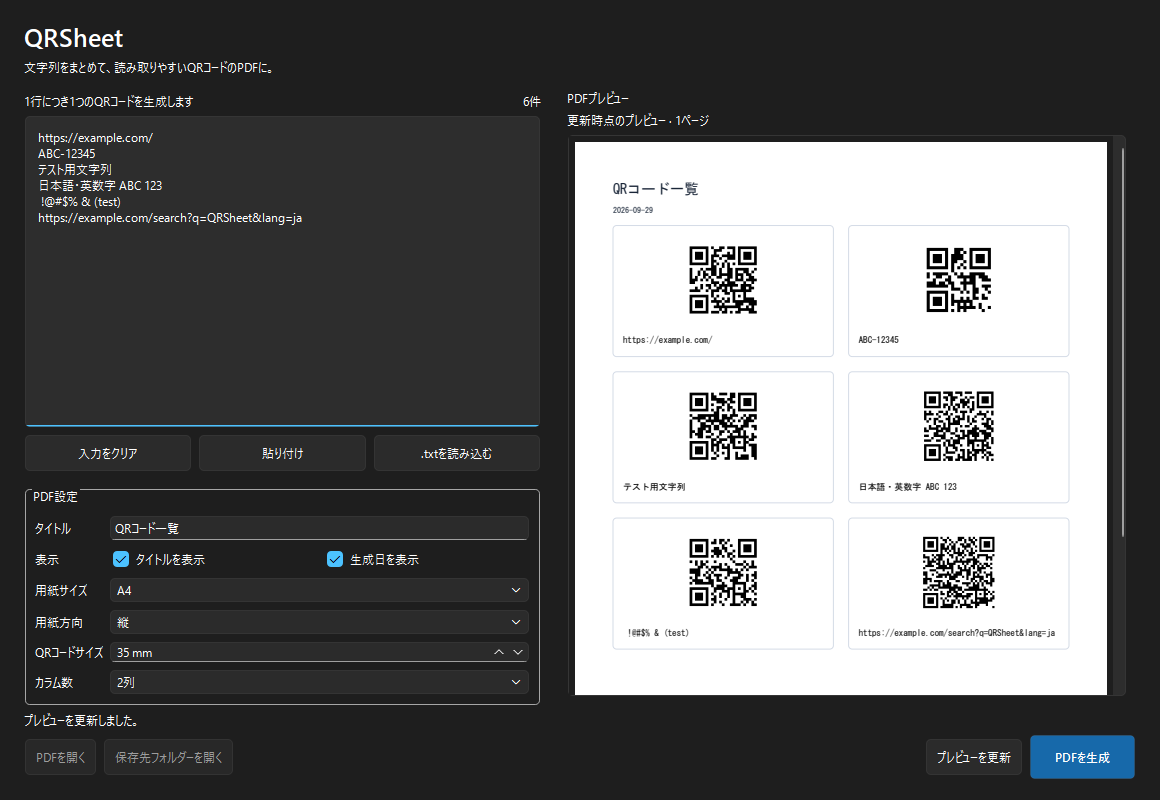
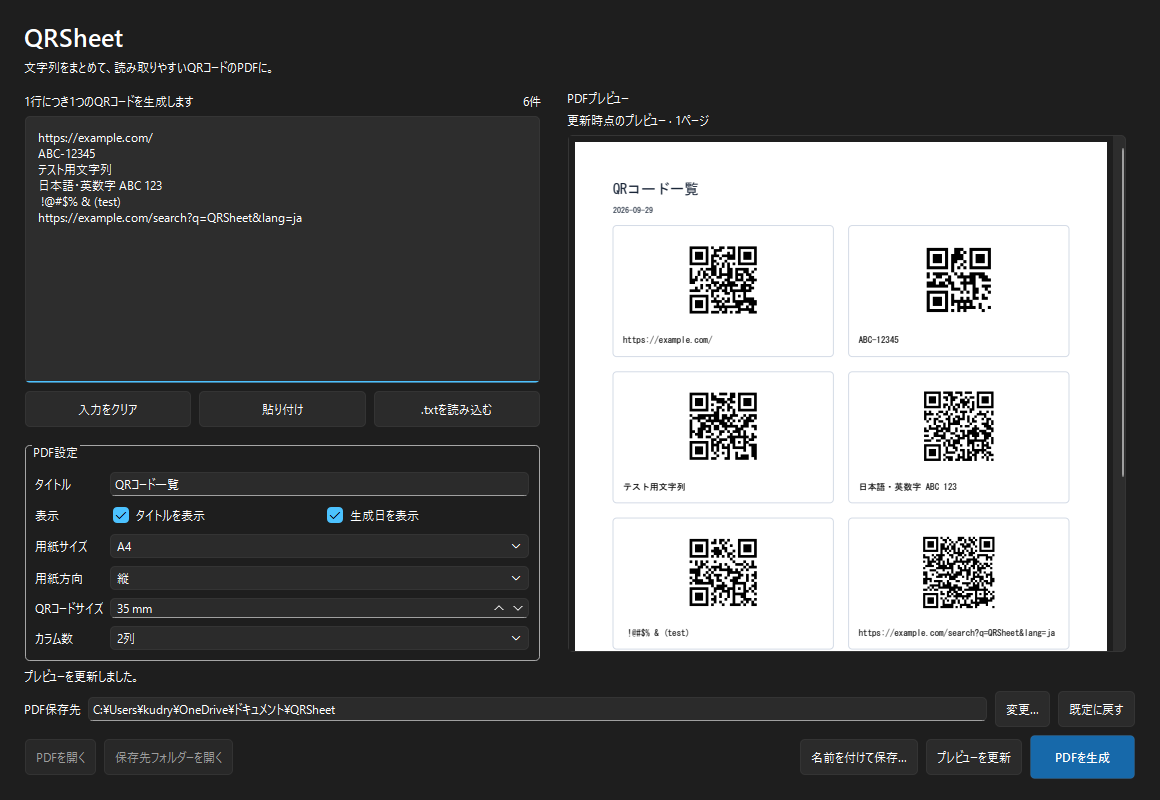
pdf保存先

diff --git a/src/qrsheet/ui/main_window.py b/src/qrsheet/ui/main_window.py
@@ -24,13 +24,30 @@ class PdfWorker(QThread):
     succeeded = Signal(str, int)
     failed = Signal(str)
 
-    def __init__(self, texts, path, settings, parent=None):
+    def __init__(self, texts, path, settings, parent=None, automatic=False):
         super().__init__(parent)
         self.texts, self.path, self.settings = texts, path, settings
+        self.automatic = automatic
 
     def run(self):
+        reserved = None
         try:
+            if self.automatic:
+                base = Path(self.path)
+                base.parent.mkdir(parents=True, exist_ok=True)
+                number = 0
+                while True:
+                    candidate = base if number == 0 else base.with_stem(f"{base.stem}_{number:03d}")
+                    try:
+                        with candidate.open("xb"):
+                            pass
+                        reserved = candidate
+                        self.path = candidate
+                        break
+                    except FileExistsError:
+                        number += 1
             pages = generate_pdf(self.texts, self.path, self.settings, self.progress.emit)
+            reserved = None
             self.succeeded.emit(str(self.path), pages)
         except UserError as exc:
             self.failed.emit(str(exc))
@@ -40,6 +57,12 @@ class PdfWorker(QThread):
         except Exception:
             logger.exception("PDF generation failed")
             self.failed.emit("PDFを生成できませんでした。設定と入力を確認して、もう一度お試しください。")
+        finally:
+            if reserved is not None:
+                try:
+                    reserved.unlink(missing_ok=True)
+                except OSError:
+                    logger.warning("Could not remove reserved output file", exc_info=True)
 
 
 class MainWindow(QMainWindow):
@@ -127,6 +150,19 @@ class MainWindow(QMainWindow):
         self.status = QLabel("文字列を入力して、PDFを生成してください。")
         self.status.setWordWrap(True)
         layout.addWidget(self.status)
+        destination = QHBoxLayout()
+        destination.addWidget(QLabel("PDF保存先"))
+        self.output_path = QLineEdit(str(self.manager.output_directory()))
+        self.output_path.setReadOnly(True)
+        self.output_path.setToolTip(self.output_path.text())
+        destination.addWidget(self.output_path, 1)
+        self.change_folder = QPushButton("変更…")
+        self.change_folder.clicked.connect(self.choose_output_directory)
+        destination.addWidget(self.change_folder)
+        self.reset_folder = QPushButton("既定に戻す")
+        self.reset_folder.clicked.connect(self.reset_output_directory)
+        destination.addWidget(self.reset_folder)
+        layout.addLayout(destination)
         actions = QHBoxLayout()
         self.open_pdf = QPushButton("PDFを開く")
         self.open_folder = QPushButton("保存先フォルダーを開く")
@@ -137,6 +173,9 @@ class MainWindow(QMainWindow):
         actions.addWidget(self.open_pdf)
         actions.addWidget(self.open_folder)
         actions.addStretch()
+        self.save_as_button = QPushButton("名前を付けて保存…")
+        self.save_as_button.clicked.connect(lambda: self.start_generation(False, True))
+        actions.addWidget(self.save_as_button)
         self.preview_button = QPushButton("プレビューを更新")
         self.preview_button.clicked.connect(lambda: self.start_generation(True))
         actions.addWidget(self.preview_button)
@@ -161,6 +200,20 @@ class MainWindow(QMainWindow):
     def mark_stale(self, *_):
         self.preview_note.setText("現在の入力・設定を反映するには「プレビューを更新」を押してください。")
 
+    def refresh_output_directory(self):
+        self.output_path.setText(str(self.manager.output_directory()))
+        self.output_path.setToolTip(self.output_path.text())
+
+    def choose_output_directory(self):
+        path = QFileDialog.getExistingDirectory(self, "PDFの保存先フォルダーを選択", self.output_path.text())
+        if path:
+            self.manager.set_output_directory(path)
+            self.refresh_output_directory()
+
+    def reset_output_directory(self):
+        self.manager.set_output_directory()
+        self.refresh_output_directory()
+
     def update_count(self):
         self.count.setText(f"{len(parse_lines(self.editor.toPlainText())):,}件")
         self.mark_stale()
@@ -183,7 +236,7 @@ class MainWindow(QMainWindow):
             logger.warning("Text import failed", exc_info=True)
             QMessageBox.warning(self, "読み込みエラー", str(exc) if isinstance(exc, UserError) else "ファイルを読み込めません。アクセス権を確認してください。")
 
-    def start_generation(self, preview_only=False):
+    def start_generation(self, preview_only=False, save_as=False):
         if self.worker is not None:
             return
         texts = parse_lines(self.editor.toPlainText())
@@ -200,22 +253,28 @@ class MainWindow(QMainWindow):
             self.document.close()
             self.preview_buffer.close()
             path = str(Path(self.preview_directory.name) / "preview.pdf")
-        else:
-            path, _ = QFileDialog.getSaveFileName(self, "PDFを保存", f"QRSheet_{date.today().isoformat()}.pdf", "PDF (*.pdf)")
+        elif save_as:
+            proposed = self.manager.output_directory() / f"QRSheet_{date.today().isoformat()}.pdf"
+            path, _ = QFileDialog.getSaveFileName(self, "PDFを保存", str(proposed), "PDF (*.pdf)")
             if not path:
                 return
             if not path.lower().endswith(".pdf"):
                 path += ".pdf"
                 if Path(path).exists() and QMessageBox.question(self, "上書き確認", "同名のPDFがあります。上書きしますか？") != QMessageBox.StandardButton.Yes:
                     return
+        else:
+            path = self.manager.output_directory() / f"QRSheet_{date.today().isoformat()}.pdf"
         self.manager.save(settings)
         self.generate_button.setEnabled(False)
         self.preview_button.setEnabled(False)
+        self.save_as_button.setEnabled(False)
+        self.change_folder.setEnabled(False)
+        self.reset_folder.setEnabled(False)
         self.progress.setRange(0, len(texts))
         self.progress.setValue(0)
         self.progress.show()
         self.status.setText("PDFを生成しています…")
-        self.worker = PdfWorker(texts, path, settings, self)
+        self.worker = PdfWorker(texts, path, settings, self, automatic=not preview_only and not save_as)
         self.worker.progress.connect(lambda done, total: self.progress.setValue(done))
         self.worker.succeeded.connect(lambda saved, pages: self.generation_done(saved, pages, preview_only))
         self.worker.failed.connect(self.generation_failed)
@@ -244,6 +303,9 @@ class MainWindow(QMainWindow):
         worker.deleteLater()
         self.generate_button.setEnabled(True)
         self.preview_button.setEnabled(True)
+        self.save_as_button.setEnabled(True)
+        self.change_folder.setEnabled(True)
+        self.reset_folder.setEnabled(True)
         self.progress.hide()
 
     def open_path(self, path):

diff --git a/tests/test_gui.py b/tests/test_gui.py
@@ -3,6 +3,9 @@ from PySide6.QtCore import QSettings
 from PySide6.QtWidgets import QApplication
 from qrsheet.settings.manager import SettingsManager, PdfSettings
 from qrsheet.ui.main_window import MainWindow
+from qrsheet.ui.main_window import PdfWorker
+from PySide6.QtWidgets import QFileDialog
+from pypdf import PdfReader
 
 
 def test_settings_roundtrip(tmp_path):
@@ -39,4 +42,61 @@ def test_gui_preview_worker(tmp_path):
         time.sleep(0.01)
     assert window.worker is None
     assert "更新された日本語" in window.document.getAllText(0).text()
+    window.close()
+
+
+def test_output_directory_default_change_and_reset(tmp_path, monkeypatch):
+    default = tmp_path / "Documents" / "QRSheet"
+    monkeypatch.setattr(SettingsManager, "default_output_directory", staticmethod(lambda: default))
+    store = QSettings(str(tmp_path / "output.ini"), QSettings.Format.IniFormat)
+    app = QApplication.instance() or QApplication([])
+    manager = SettingsManager(store)
+    window = MainWindow(manager)
+    assert window.output_path.text() == str(default)
+    custom = tmp_path / "日本語の保存先"
+    monkeypatch.setattr(QFileDialog, "getExistingDirectory", lambda *args: str(custom))
+    window.choose_output_directory()
+    assert SettingsManager(store).output_directory() == custom
+    monkeypatch.setattr(QFileDialog, "getExistingDirectory", lambda *args: "")
+    window.choose_output_directory()
+    assert manager.output_directory() == custom
+    window.reset_output_directory()
+    assert manager.output_directory() == default
+    assert not default.exists()
+    window.close()
+
+
+def test_automatic_save_preserves_existing_and_cleans_failed_output(tmp_path):
+    app = QApplication.instance() or QApplication([])
+    path = tmp_path / "new-folder" / "QRSheet.pdf"
+    first = PdfWorker(["最初のPDF"], path, PdfSettings(), automatic=True)
+    first.run()
+    original = path.read_bytes()
+    second = PdfWorker(["次のPDF"], path, PdfSettings(), automatic=True)
+    second.run()
+    assert path.read_bytes() == original
+    assert "次のPDF" in PdfReader(path.with_stem("QRSheet_001")).pages[0].extract_text()
+    failed = PdfWorker(["x" * 4000], path, PdfSettings(), automatic=True)
+    failed.run()
+    assert not path.with_stem("QRSheet_002").exists()
+
+
+def test_gui_saves_without_dialog(tmp_path, monkeypatch):
+    app = QApplication.instance() or QApplication([])
+    manager = SettingsManager(QSettings(str(tmp_path / "save.ini"), QSettings.Format.IniFormat))
+    manager.set_output_directory(tmp_path / "PDF")
+    window = MainWindow(manager)
+    window.editor.setPlainText("保存テスト")
+    def unexpected_dialog(*args):
+        raise AssertionError("Automatic generation must not ask for a filename")
+    monkeypatch.setattr(QFileDialog, "getSaveFileName", unexpected_dialog)
+    window.start_generation()
+    deadline = time.monotonic() + 30
+    while window.worker is not None and time.monotonic() < deadline:
+        app.processEvents()
+        time.sleep(0.01)
+    assert window.worker is None
+    assert window.last_pdf.parent == manager.output_directory()
+    assert "保存テスト" in PdfReader(window.last_pdf).pages[0].extract_text()
+    assert window.open_folder.isEnabled()
     window.close()

diff --git a/src/qrsheet/settings/manager.py b/src/qrsheet/settings/manager.py
@@ -1,4 +1,5 @@
 from dataclasses import asdict, dataclass
+from pathlib import Path
 from qrsheet.qr.generator import UserError
 
 
@@ -25,6 +26,23 @@ class SettingsManager:
     def __init__(self, store=None):
         from PySide6.QtCore import QSettings
         self.store = store if store is not None else QSettings("QRSheet", "QRSheet")
+
+    @staticmethod
+    def default_output_directory():
+        from PySide6.QtCore import QStandardPaths
+        documents = QStandardPaths.writableLocation(QStandardPaths.StandardLocation.DocumentsLocation)
+        return Path(documents or (Path.home() / "Documents")) / "QRSheet"
+
+    def output_directory(self):
+        value = self.store.value("output_directory", "", type=str)
+        return Path(value) if value and Path(value).is_absolute() else self.default_output_directory()
+
+    def set_output_directory(self, path=None):
+        if path is None:
+            self.store.remove("output_directory")
+        else:
+            self.store.setValue("output_directory", str(Path(path).resolve()))
+        self.store.sync()
 
     def load(self):
         defaults = PdfSettings()
